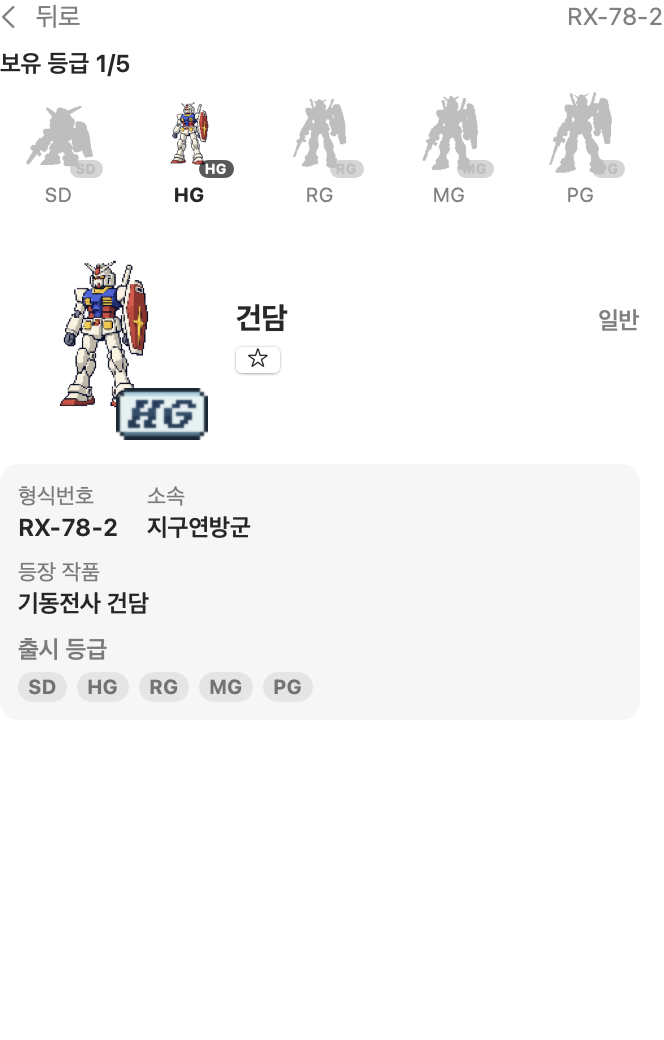
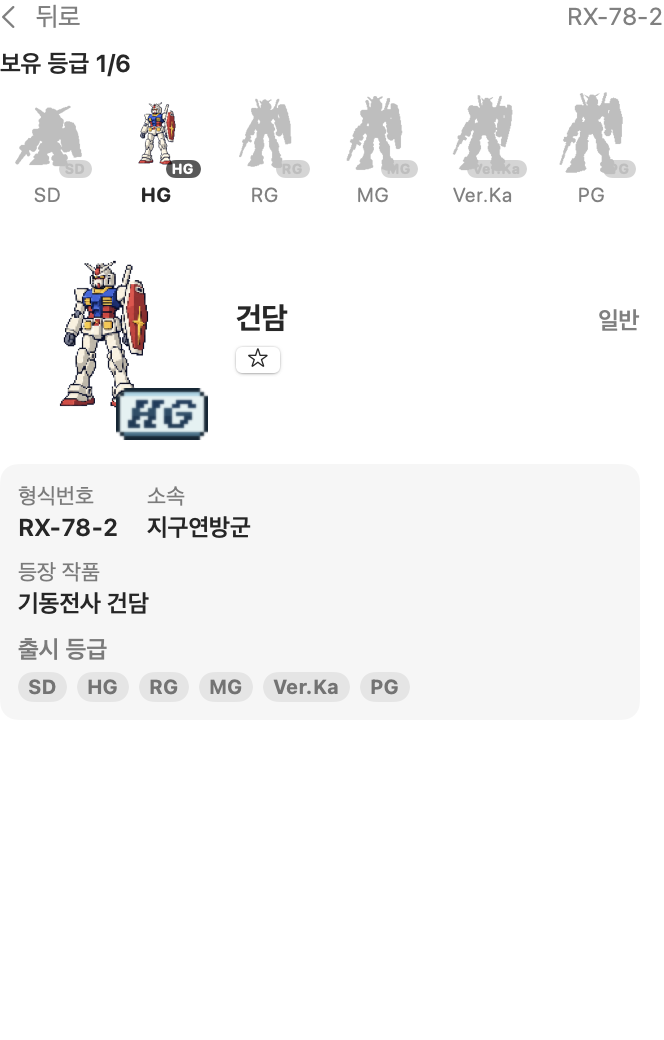
docs: refresh README for Ver.Ka, MGEX and hangar silhouettes
List the eight-step grade order, say that a completed suit returns when
a grade is added later, and describe unbuilt suits as silhouettes. The
hangar and detail screenshots (en/ko/ja) are re-rendered from the
production views with the bundled catalog.

diff --git a/README.ja.md b/README.ja.md
@@ -9,10 +9,10 @@
 ## 仕組み
 
 - **開封**: AI コーディングトークンを使うとキットボックスが開き、機体が登場します。
-- **グレードアップ**: さらに使うと、その機体で実際に発売されたキットのグレードを順に上がります（SD → MGSD → HG → RG → MG → PG）。発売されていないグレードは飛ばします。
+- **グレードアップ**: さらに使うと、その機体で実際に発売されたキットのグレードを順に上がります（SD → MGSD → HG → RG → MG → Ver.Ka → MGEX → PG）。発売されていないグレードは飛ばし、あとからカタログにキットのグレードが加わると、完成した機体がそのグレードを作りに再登場します。
 - **完成**: 最終グレードに到達すると機体が完成し、格納庫に保存され、新しいキットボックスが届きます。完成した機体は、すべての機体を完成させるまで再登場しません。
 - **専用機**: シャア専用ザク II のような指揮官機・エース専用機は、ベース機のレアな変種として登場します。ショップの塗装ツール（マスキングテープ → スミ入れペン → 塗料セット → エアブラシ）で確率を永続的に上げられます。
-- **格納庫**: 機体ごとに 1 マスで、作ったグレードをすべて記録します。作品別に絞り込めて、作品をコンプリートするとバッジがもらえます。
+- **格納庫**: 機体ごとに 1 マスで、作ったグレードをすべて記録します。まだ作っていない機体は、型式番号だけを手がかりにしたシルエットで表示されます。作品別に絞り込めて、作品をコンプリートするとバッジがもらえます。
 - **アイテム**: スポンジヤスリは即座に成長させ、アンコモン／レアボックスはレアリティを保証します。
 
 | 格納庫 | 機体詳細 |

diff --git a/README.ko.md b/README.ko.md
@@ -9,10 +9,10 @@
 ## 작동 방식
 
 - **개봉**: AI 코딩 토큰을 쓰면 건프라 박스가 열리고 기체가 나옵니다.
-- **등급 업**: 계속 쓰면 그 기체로 실제 출시된 키트 등급을 따라 올라갑니다(SD → MGSD → HG → RG → MG → PG). 출시되지 않은 등급은 건너뜁니다.
+- **등급 업**: 계속 쓰면 그 기체로 실제 출시된 키트 등급을 따라 올라갑니다(SD → MGSD → HG → RG → MG → Ver.Ka → MGEX → PG). 출시되지 않은 등급은 건너뛰고, 나중에 카탈로그에 키트 등급이 추가되면 완성한 기체가 그 등급을 만들러 다시 나옵니다.
 - **완성**: 최종 등급에 도달하면 기체가 완성되어 격납고에 보존되고, 새 건프라 박스가 도착합니다. 완성한 기체는 모든 기체를 완성할 때까지 다시 나오지 않습니다.
 - **전용기**: 샤아 전용 자쿠 II 같은 지휘관기·에이스 전용기는 기본기의 희귀한 변형으로 나옵니다. 상점의 도색 공구(마스킹 테이프 → 먹선펜 → 도료 세트 → 에어브러시)로 확률을 영구히 올릴 수 있습니다.
-- **격납고**: 기체마다 한 칸에 만든 등급을 모두 기록합니다. 작품별로 걸러 볼 수 있고, 작품을 다 모으면 완성 배지를 받습니다.
+- **격납고**: 기체마다 한 칸에 만든 등급을 모두 기록합니다. 아직 만들지 않은 기체는 형식번호만 단서로 남긴 실루엣으로 보입니다. 작품별로 걸러 볼 수 있고, 작품을 다 모으면 완성 배지를 받습니다.
 - **아이템**: 스펀지 사포는 즉시 성장시키고, 언커먼·레어 박스는 레어도를 보증합니다.
 
 | 격납고 | 기체 상세 |

diff --git a/README.md b/README.md
@@ -9,10 +9,10 @@ A macOS menu-bar app that turns the AI coding tokens you already spend (Claude C
 ## How it works
 
 - **Unbox**: spend AI coding tokens and your Kit Box opens. A mobile suit comes out.
-- **Grade up**: keep spending and the suit climbs through the kit grades actually released for it: SD → MGSD → HG → RG → MG → PG. Grades that were never released are skipped.
+- **Grade up**: keep spending and the suit climbs through the kit grades actually released for it: SD → MGSD → HG → RG → MG → Ver.Ka → MGEX → PG. Grades that were never released are skipped, and when a kit grade is added to the catalog later, a completed suit comes back to build it.
 - **Complete**: at its final grade the suit is complete. It is saved to your Hangar and a new Kit Box arrives. A completed suit does not come out again until you have completed every suit.
 - **Customs**: commander and ace customs, such as Char's Zaku II, are rare variants of their base suit. Paint tools from the shop (Masking Tape → Panel Line Pen → Paint Set → Airbrush) raise the chance for good.
-- **Hangar**: one cell per suit records every grade you have built. Filter by series and earn a badge for completing each one.
+- **Hangar**: one cell per suit records every grade you have built. Suits you have not built yet appear as silhouettes with only their model number as a clue. Filter by series and earn a badge for completing each one.
 - **Items**: a Sanding Sponge gives instant progress, and Uncommon or Rare Boxes guarantee a rarity tier.
 
 | Hangar | Suit detail |
